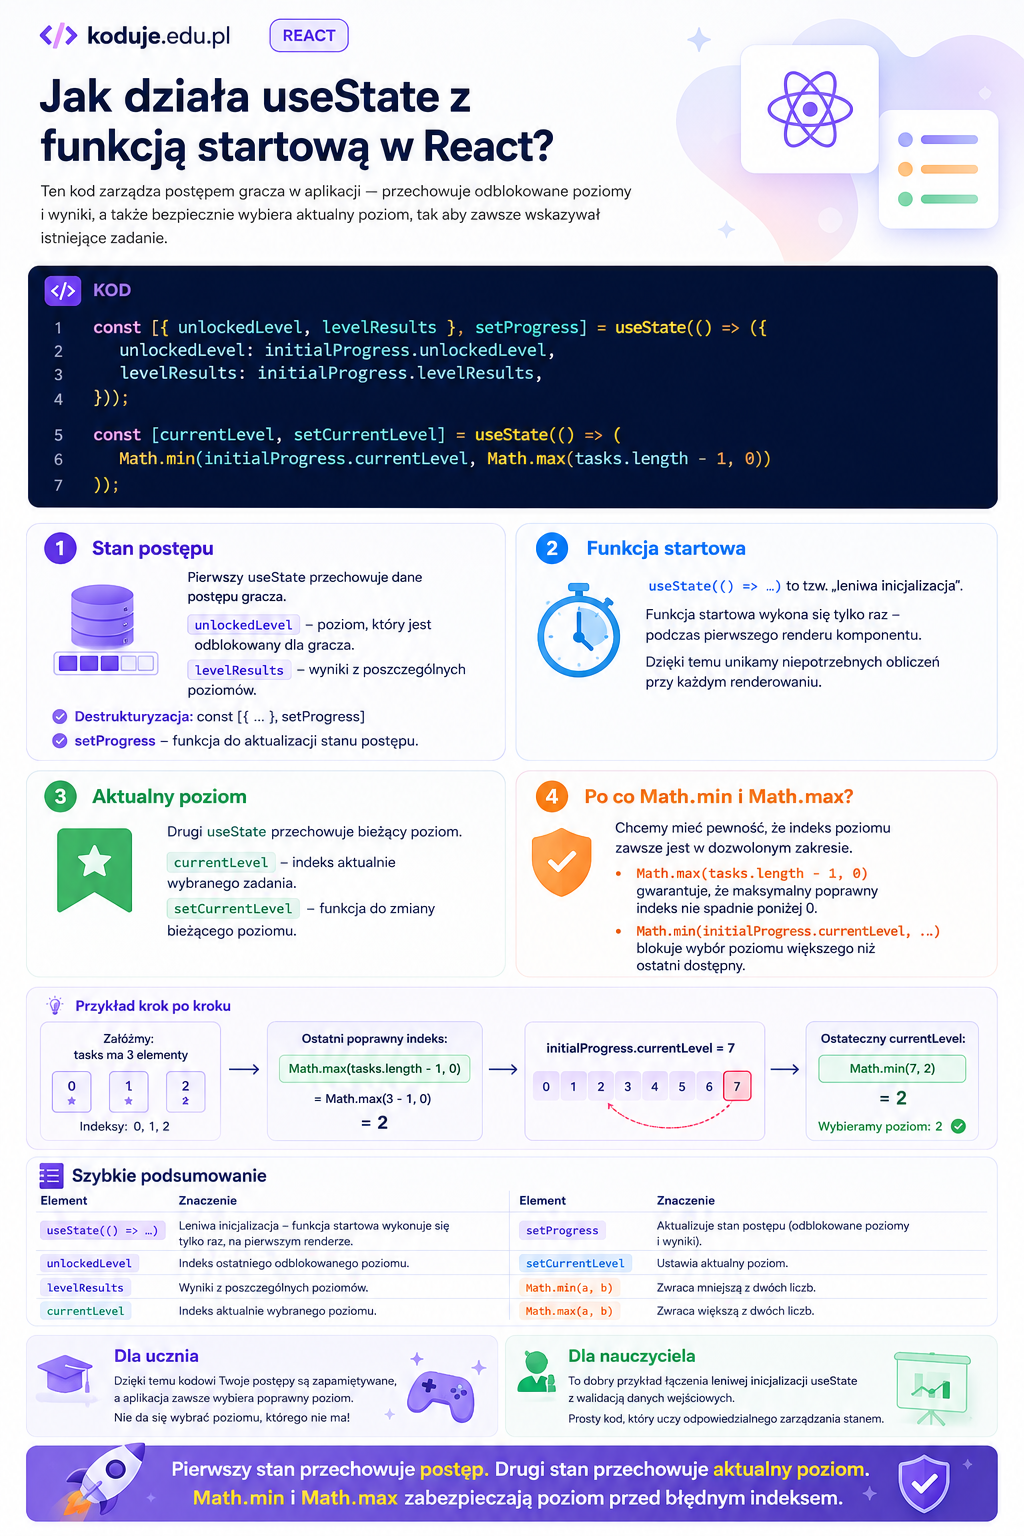
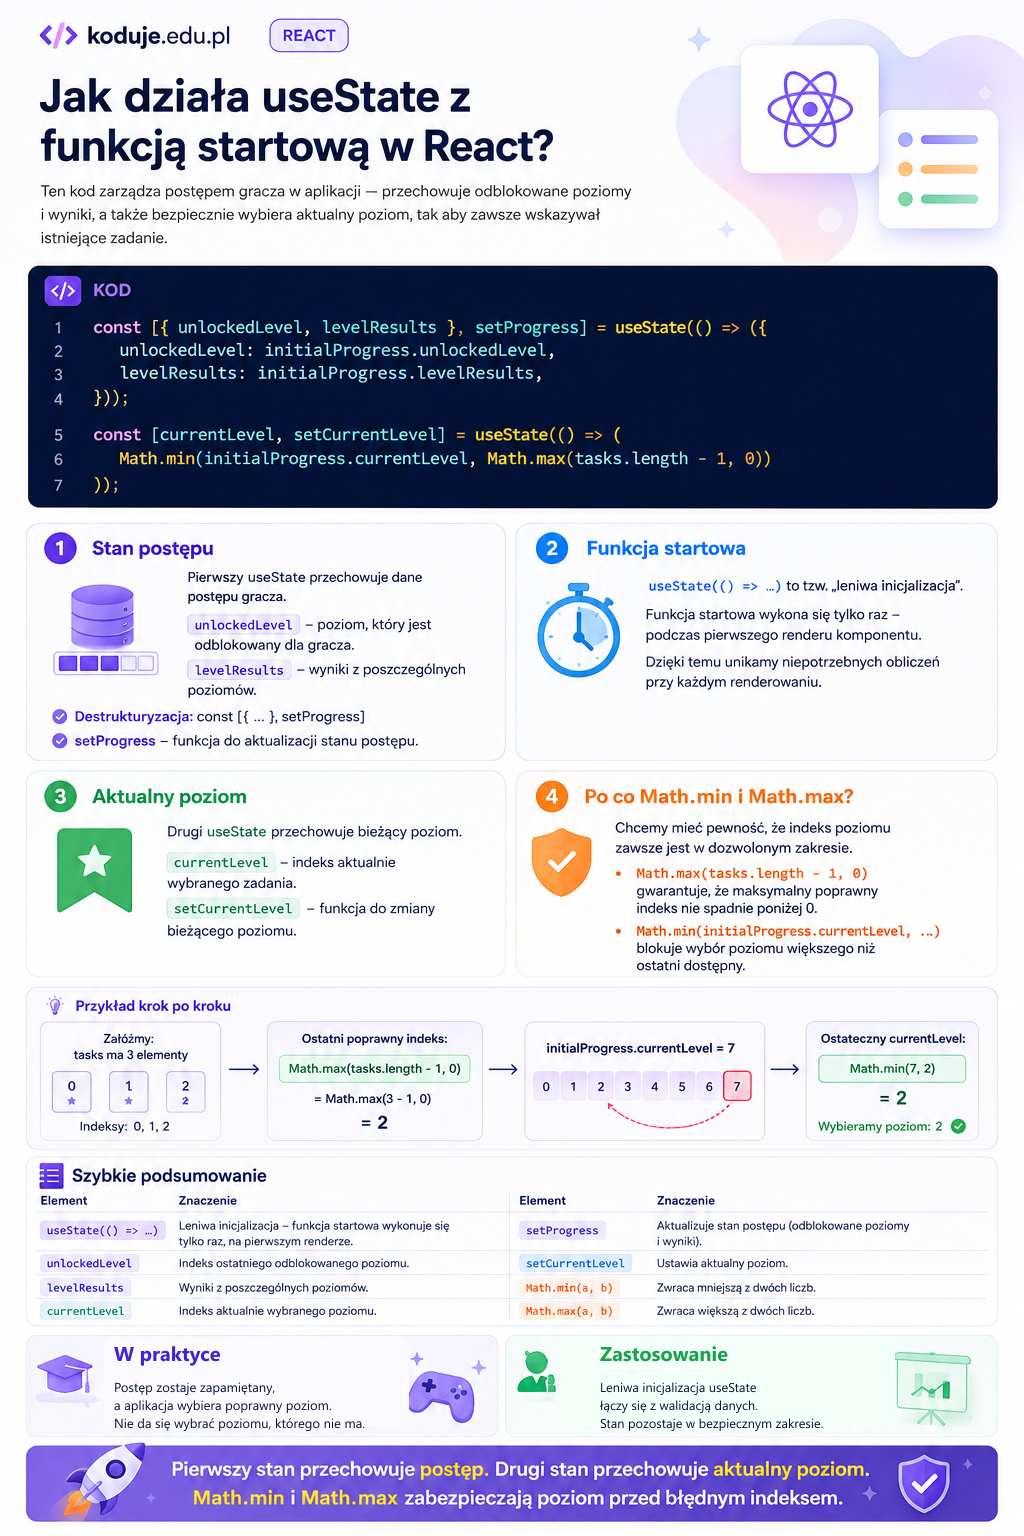
refactor: update terminology in blog posts and styles for consistency

Changed region(s): [[0.5625, 0.875, 0.8125, 0.9375], [0.0938, 0.875, 0.3438, 0.9375], [0.3438, 0.875, 0.375, 0.9062]]

diff --git a/src/styles/article-enhancements.css b/src/styles/article-enhancements.css
@@ -155,8 +155,8 @@
   }
 
   .article-content .lesson-note,
-  .article-content .student-box,
-  .article-content .teacher-box {
+  .article-content .concept-box,
+  .article-content .usage-box {
     margin: 2rem 0;
     padding: 1.25rem 1.5rem;
     border: 1px solid rgba(var(--color-primary-rgb), 0.18);
@@ -167,17 +167,17 @@
   }
 
   html.dark .article-content .lesson-note,
-  html.dark .article-content .student-box,
-  html.dark .article-content .teacher-box {
+  html.dark .article-content .concept-box,
+  html.dark .article-content .usage-box {
     background: linear-gradient(135deg, rgba(15,27,45,0.96), rgba(11,18,32,0.9));
     border-color: rgba(var(--color-primary-rgb), 0.3);
   }
 
-  .article-content .student-box {
+  .article-content .concept-box {
     border-left-color: rgb(34,197,94);
   }
 
-  .article-content .teacher-box {
+  .article-content .usage-box {
     border-left-color: rgb(124,58,237);
   }
 

diff --git a/ToDo.md b/ToDo.md
@@ -1,4 +1,6 @@
 # ToDo
 
+- [ ] Przerób teksty i grafiki blogu aby były uniwerslane a nie dla ucznia i nauczyciela
+- [ ] 
 - [ ] ustawienia w scr/config.site.js
 - [ ] 